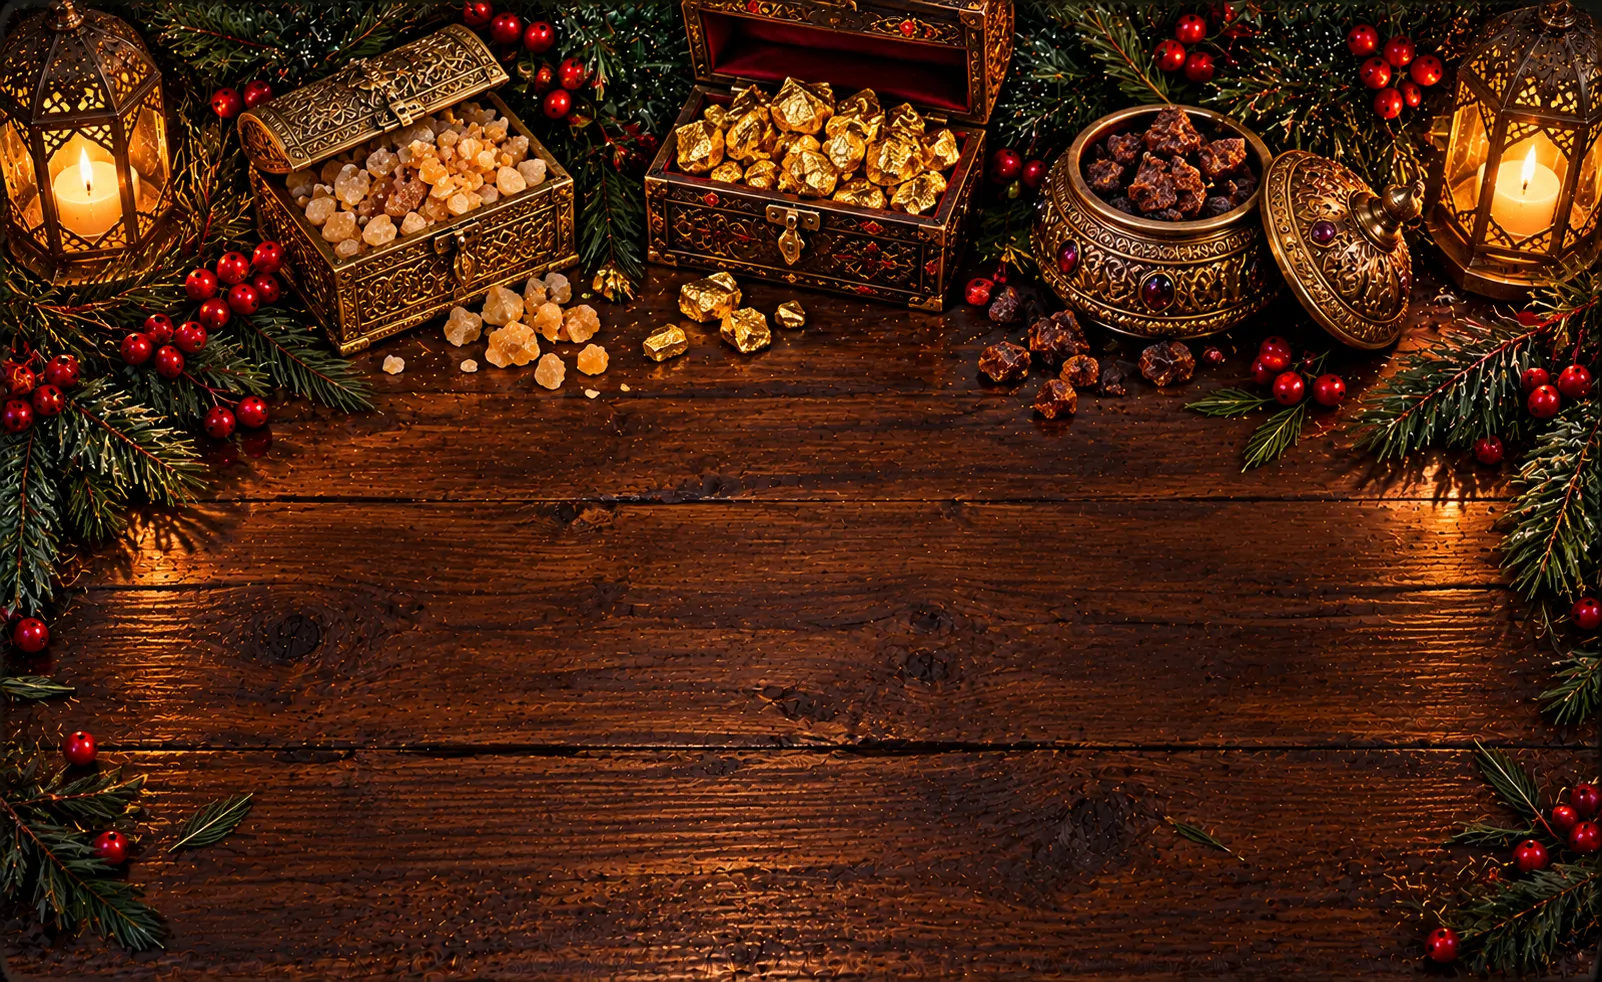
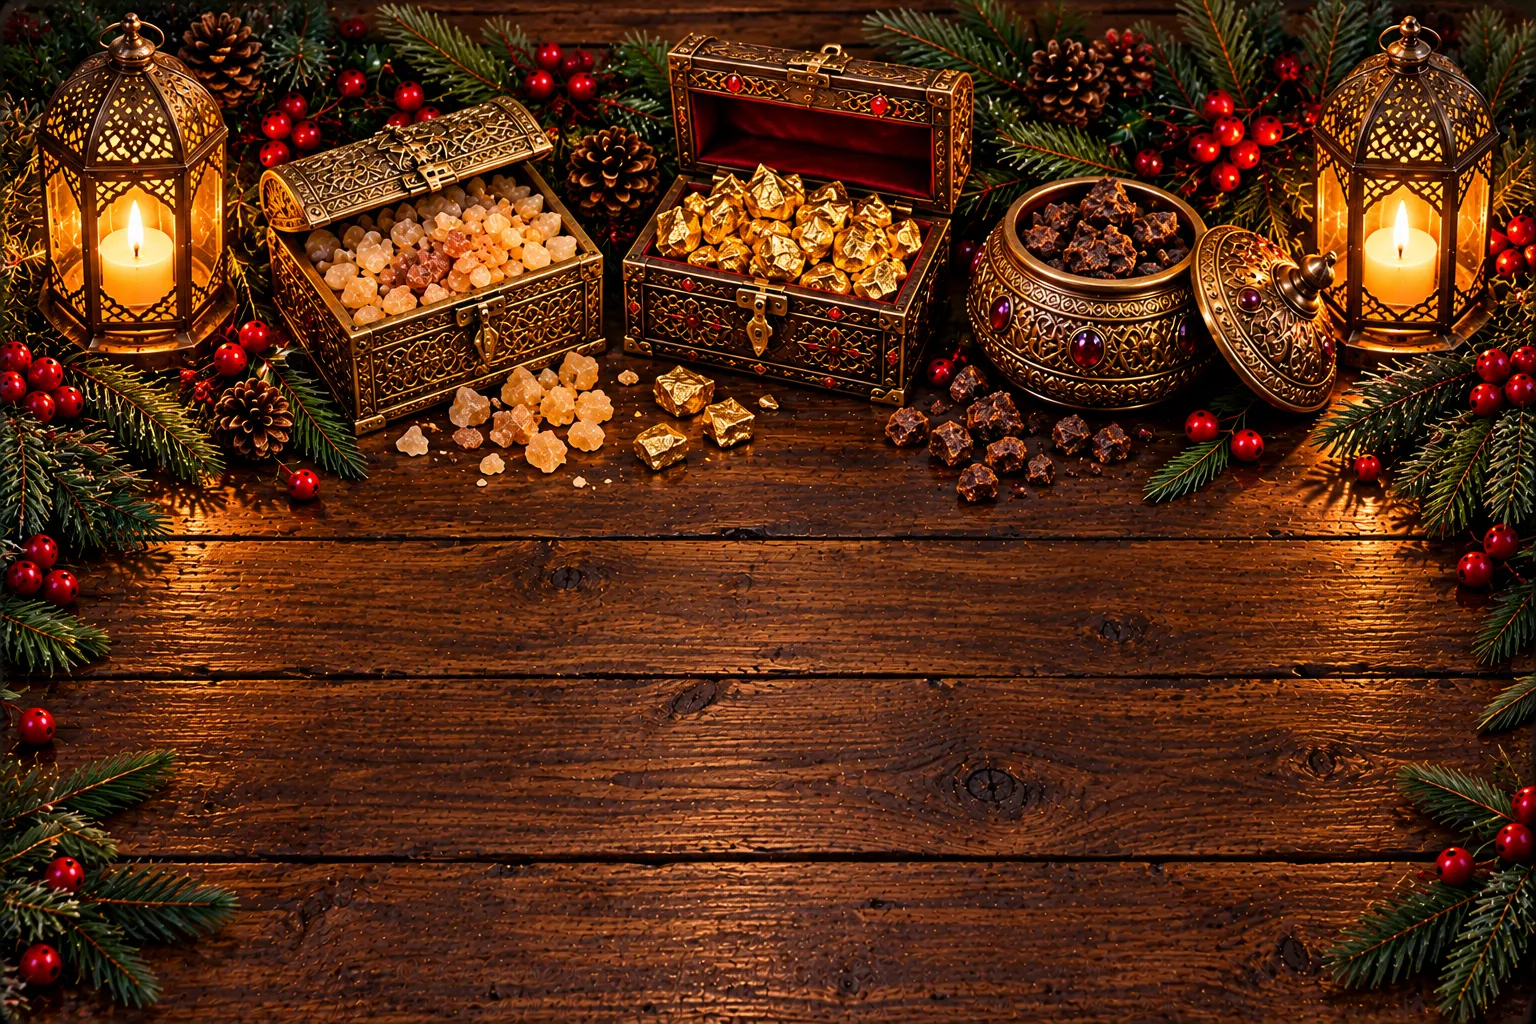
Christmas placemats: The three gifts, second version, at placemat shape
Claude-Session: https://claude.ai/code/session_01VPDKP5EJZDEyqUkUM3kqQb

diff --git a/art/christmas-placemats/README.md b/art/christmas-placemats/README.md
@@ -11,4 +11,4 @@ and its side borders with it.
 |---|---|
 | his-presence | His Presence / is our Present, in red and green script on cream, poinsettias and holly in the corners (Alyx's line, 25 Oct; second version 26 Oct at 1536 x 1024, the placemat's shape; the first was mat-shaped and lost its side borders to the trim) |
 | wise-men | the three wise men on camels, seen from behind, the star over Bethlehem lit in the valley, a stitched edge; no words (26 Oct; the lettered version is the doormat) |
-| three-gifts | the gold, frankincense and myrrh along the top with two lanterns, the middle clear for the plate; no words (26 Oct). Came at 1602 x 982, the mat's shape: the fit trims 5% a side and clips the lanterns |
+| three-gifts | the gold, frankincense and myrrh along the top with two lanterns, the middle clear for the plate; no words (26 Oct). Second version at 1536 x 1024, the lanterns whole inside the edges; the first came mat-shaped |
